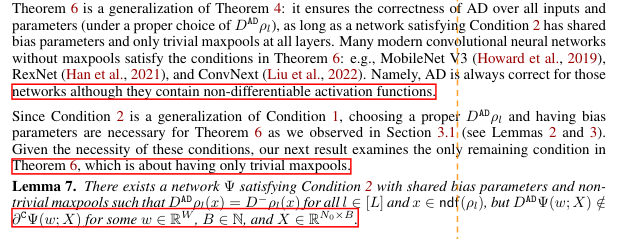
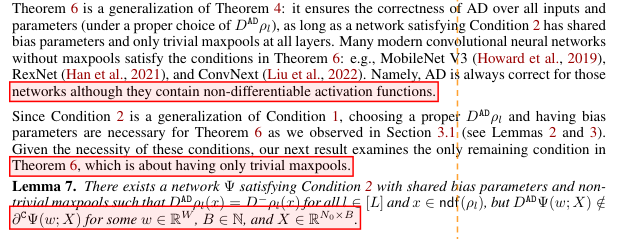
Restore translucent tail highlights and trim README wording

Changed region(s): [[0.0, 0.3222, 0.7343, 0.4393], [0.0, 0.6444, 0.5813, 0.7615], [0.0, 0.8494, 0.5813, 0.9665]]

diff --git a/src/pipeline.py b/src/pipeline.py
@@ -156,11 +156,20 @@ def _remove_annotations(page) -> None:
 
 
 def _mark_tail(page, item) -> None:
-    annotation = page.add_rect_annot(pymupdf.Rect(item["bbox"]))
-    annotation.set_colors(stroke=(1, 0, 0) if item["status"] == "checked" else (.7, .35, 1))
+    box = (pymupdf.Rect(item["bbox"]) + (-1.5, -1.5, 1.5, 1.5)) & (page.rect * page.derotation_matrix)
+    color = (1, 0, 0) if item["status"] == "checked" else (.7, .35, 1)
+    # Separate fill and outline so only the fill inherits the original 8% opacity.
+    fill = page.add_rect_annot(box)
+    fill.set_colors(stroke=color, fill=color)
+    fill.set_border(width=0)
+    fill.set_opacity(.08)
+    fill.set_info(title=ANNOTATION_TITLE, content="short-tail fill")
+    fill.update()
+    annotation = page.add_rect_annot(box)
+    annotation.set_colors(stroke=color)
     annotation.set_border(width=1)
     annotation.set_info(title=ANNOTATION_TITLE, content=json.dumps({key: item[key] for key in
-                        ("paragraph_id", "final_line", "tail_ratio", "threshold_x", "status", "end_reason")}, ensure_ascii=False))
+                        ("paragraph_id", "final_line", "last_char_x1", "tail_ratio", "threshold_x", "status", "end_reason")}, ensure_ascii=False))
     annotation.update()
 
 

diff --git a/test/test_pipeline.py b/test/test_pipeline.py
@@ -116,6 +116,10 @@ def test_rotation_crop_mapping_and_annotation_does_not_change_text(tmp_path, rot
         assert guide.border["width"] == 1
         assert guide.opacity == pytest.approx(.8)
         assert guide.colors["stroke"] == pytest.approx((1, .55, 0))
+        fills = [item for item in annotations if item.type[1] == "Square" and item.colors["fill"]]
+        assert len(fills) == 2
+        assert fills[0].colors["fill"] == pytest.approx((1, 0, 0))
+        assert fills[0].opacity == pytest.approx(.08)
         assert any(item.info["title"] == "Reader" for item in annotations)
         marked_rgb, _ = render_page(page, 123)
         assert (marked_rgb == rgb).all()

diff --git a/README.md b/README.md
@@ -29,4 +29,4 @@ python3.12 -m venv .venv
 .venv/bin/ruff check .
 ```
 
-源码在 `src/`，测试与夹具在 `test/`，演示图在 `assets/`。模型、报告和日志统一放入 `outputs/`，该目录已被 Git 忽略。
+源码在 `src/`，测试与夹具在 `test/`，演示图在 `assets/`。模型、报告和日志统一放入 `outputs/`。
